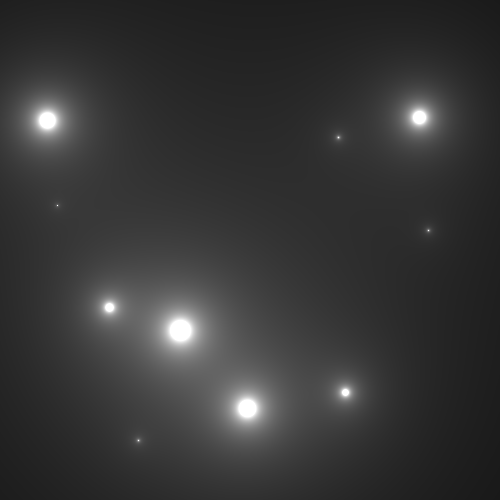
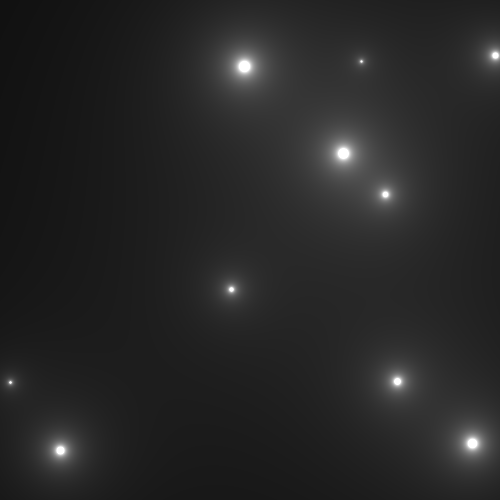
tweaked some settings

diff --git a/main.c b/main.c
@@ -15,6 +15,7 @@
 
 #define PARTS 10
 #define MAX_Q 100
+#define MAX_VOLTS (1.2 * MAX_Q)
 
 double dist(double x1, double y1, double x2, double y2); 
 double potential(double q, double d); 
@@ -51,18 +52,13 @@ int main()
             for(int i = 0; i < PARTS; ++i)
             {
                 double d = dist(x, y, xs[i], ys[i]); 
-                if(d == 0)
-                {
-                    volts = 255; 
-                    break; 
-                }
                 volts += potential(qs[i], d); 
             }
-            double ratio = volts / MAX_Q; 
+            double ratio = volts / MAX_VOLTS; 
+            if(ratio > 1)       ratio = 1; 
+            else if(ratio < 0)  ratio = 0; 
 
             int shade = 255 * ratio; 
-            if(shade > 255)     shade = 255; 
-            else if(shade < 0)  shade = 0; 
             snprintf(buffer, sizeof(buffer)-1, "%d %d %d ", shade, shade, shade); 
             write(fd, buffer, strlen(buffer)); 
 
@@ -87,7 +83,8 @@ double dist(double x1, double y1, double x2, double y2)
 
 double potential(double q, double d)
 {
-    if(d == 0)  return 0; 
+    if(d == 0)  
+        return MAX_VOLTS; 
     return K * (q / d); 
 }
 
